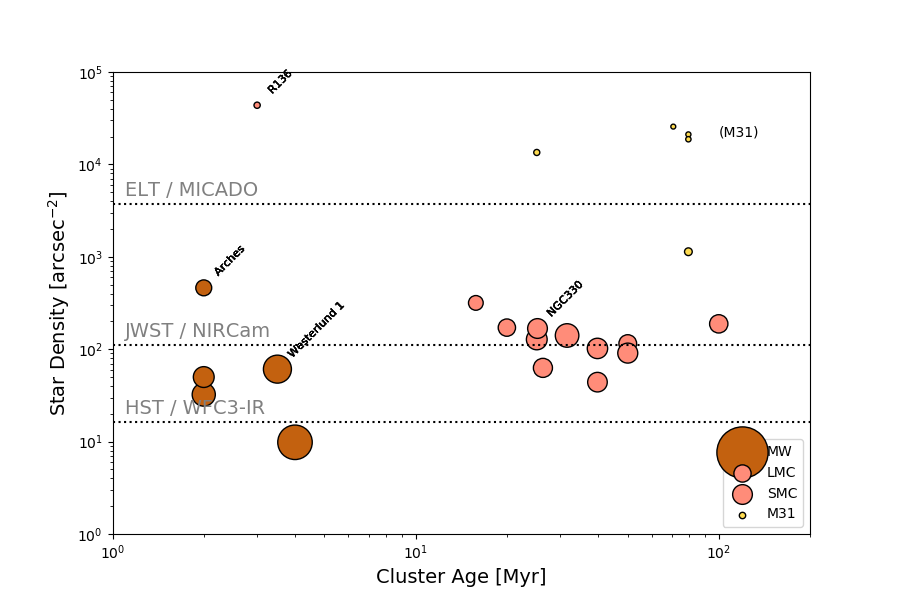
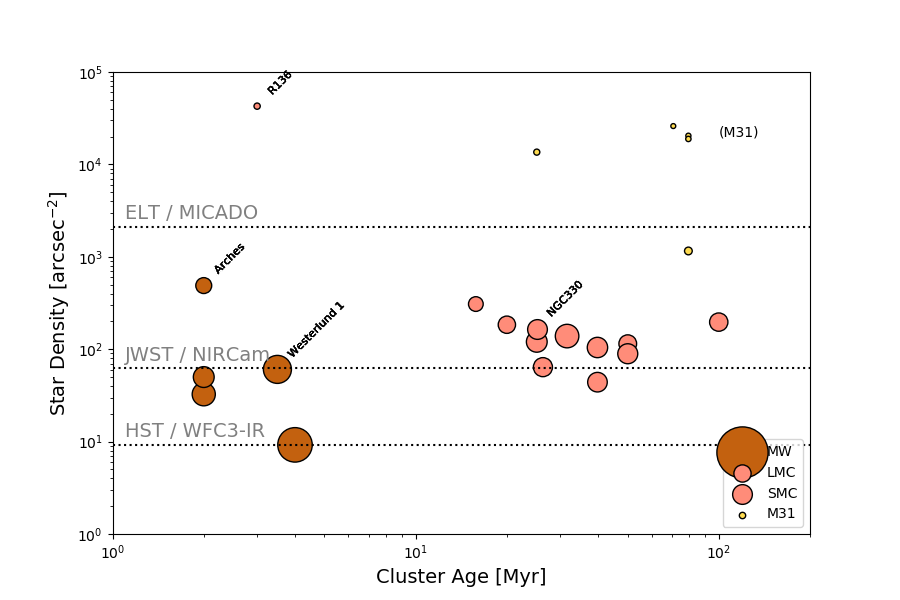
PZ10_density_vs_diff_limit plot updated to 2x FWHM in H-band (because of HST)

diff --git a/project/Portegeis-Zwart_density_vs_age/make_plot.py b/project/Portegeis-Zwart_density_vs_age/make_plot.py
@@ -4,7 +4,7 @@ from matplotlib.colors import LogNorm
 from astropy.io import ascii
 from astropy import units as u
 
-from ..simcado_sandbox import imf
+from project.simcado_sandbox import imf
 
 
 def king_profile_core_fraction(r_core, r_eff):
@@ -117,11 +117,11 @@ for i in [4, 0, 11, 1]:
             plt.text(age[i], rho[i], "    " + names[i] + "   ", fontsize=8,
                      rotation=45, verticalalignment="bottom",
                      horizontalalignment="left")
-
-wavelength = 1.2
+n_fwhm = 2.5
+wavelength = 1.6
 for t, ap in zip(["ELT / MICADO", "JWST / NIRCam", "HST / WFC3-IR"],
                  [38, 6.5, 2.5]):
-    y = (2.5 * telescope_diffraction_limit(ap, wavelength)) ** -2
+    y = (n_fwhm * telescope_diffraction_limit(ap, wavelength)) ** -2
     plt.axhline(y, ls=":", c="k")
     plt.text(1.1E0, 1.1 * y, t, color="gray", verticalalignment="bottom",
              fontsize=14)
